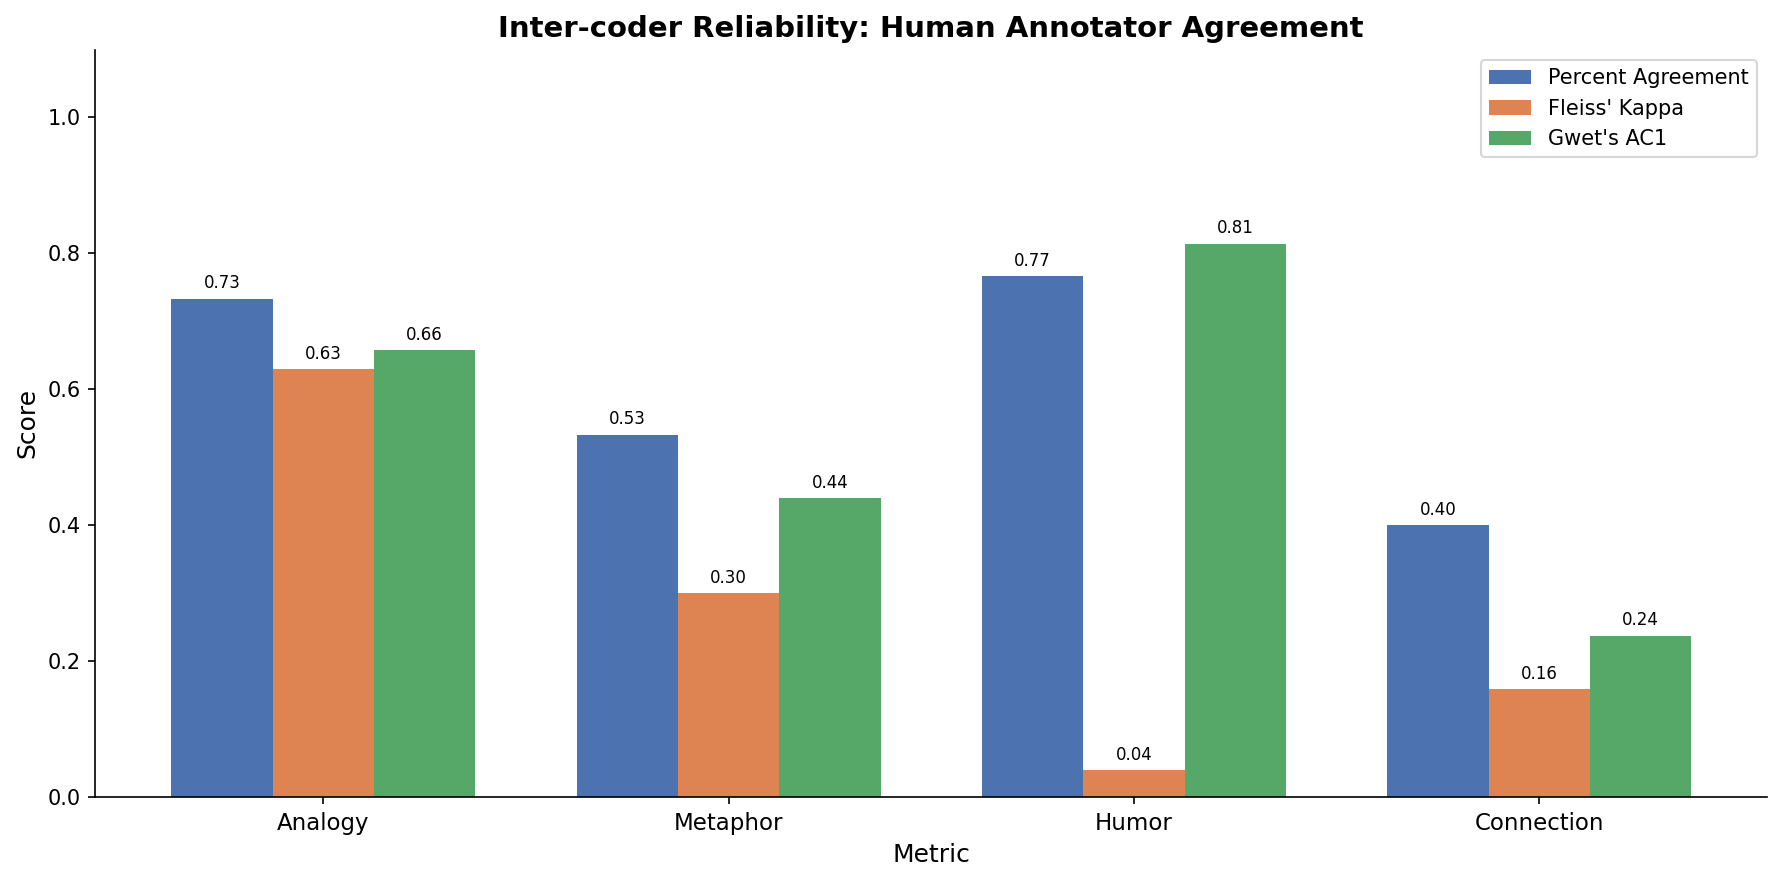
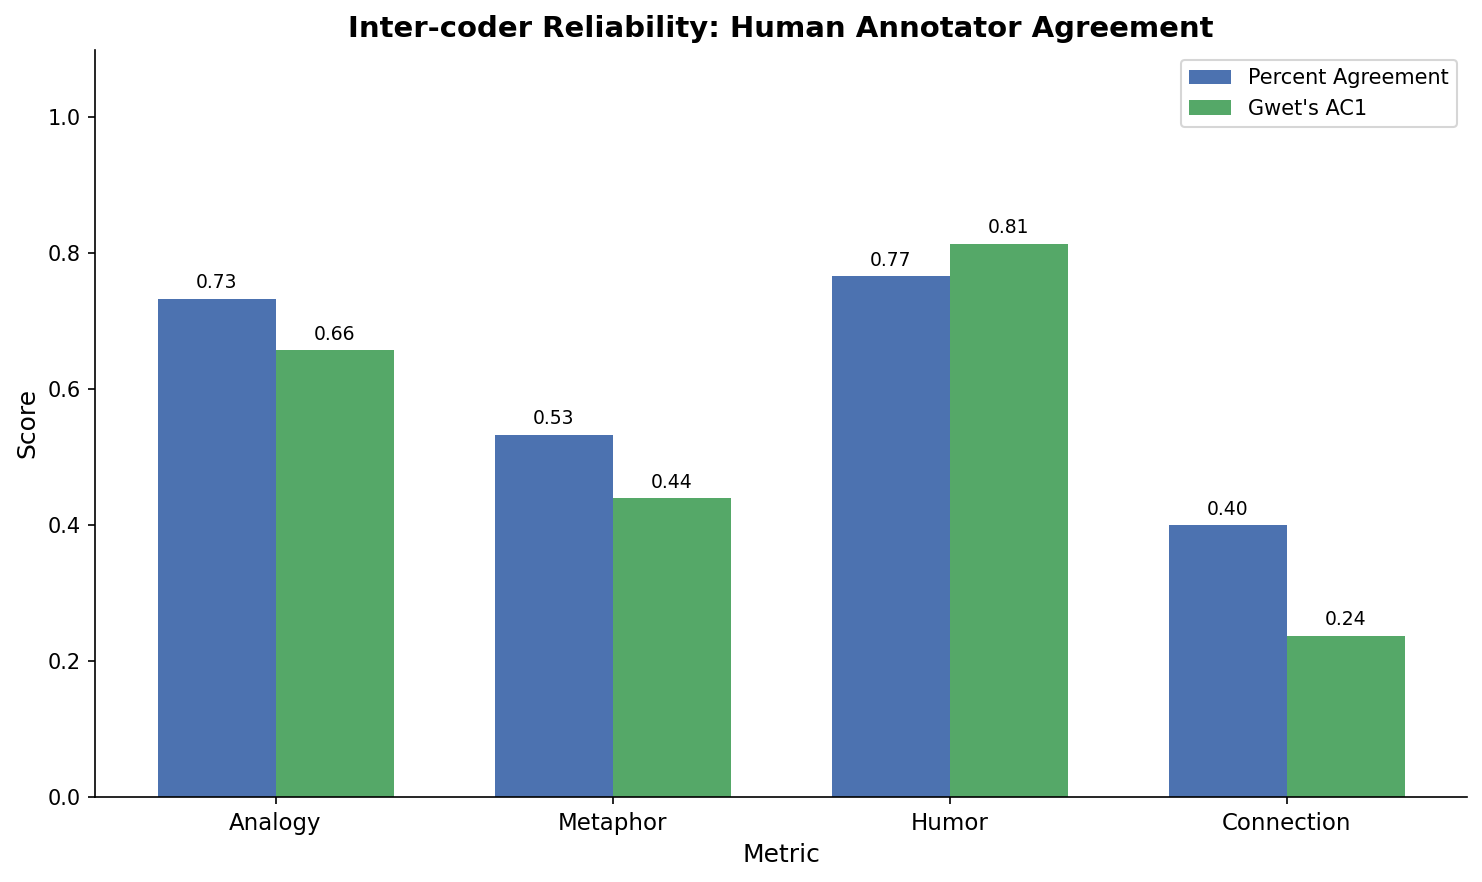
update intercoder reliability and human-LLM correlation visualizations by simplifying metrics and improving chart clarity

diff --git a/scripts/judge_alignment/intercoder_reliability.py b/scripts/judge_alignment/intercoder_reliability.py
@@ -269,22 +269,19 @@ def compute_majority_vote_labels(df: pd.DataFrame) -> pd.DataFrame:
 
 def plot_intercoder_reliability(icr_df: pd.DataFrame, output_path: Path) -> None:
     """
-    Create a grouped bar chart showing percent agreement, Fleiss' kappa,
-    and Gwet's AC1 for each metric.
+    Create a grouped bar chart showing percent agreement and Gwet's AC1 for each metric.
     """
-    fig, ax = plt.subplots(figsize=(12, 6))
+    fig, ax = plt.subplots(figsize=(10, 6))
 
     metrics = icr_df["metric"].tolist()
     x = np.arange(len(metrics))
-    width = 0.25
+    width = 0.35
 
     percent_agreement = icr_df["percent_agreement"].values
-    kappa = icr_df["kappa"].values
     ac1 = icr_df["ac1"].values
 
-    bars1 = ax.bar(x - width, percent_agreement, width, label="Percent Agreement", color="#4C72B0")
-    bars2 = ax.bar(x, kappa, width, label="Fleiss' Kappa", color="#DD8452")
-    bars3 = ax.bar(x + width, ac1, width, label="Gwet's AC1", color="#55A868")
+    bars1 = ax.bar(x - width / 2, percent_agreement, width, label="Percent Agreement", color="#4C72B0")
+    bars2 = ax.bar(x + width / 2, ac1, width, label="Gwet's AC1", color="#55A868")
 
     ax.set_xlabel("Metric", fontsize=12)
     ax.set_ylabel("Score", fontsize=12)
@@ -299,15 +296,11 @@ def plot_intercoder_reliability(icr_df: pd.DataFrame, output_path: Path) -> None
     for bar in bars1:
         height = bar.get_height()
         ax.annotate(f"{height:.2f}", xy=(bar.get_x() + bar.get_width() / 2, height),
-                    xytext=(0, 3), textcoords="offset points", ha="center", va="bottom", fontsize=8)
+                    xytext=(0, 3), textcoords="offset points", ha="center", va="bottom", fontsize=9)
     for bar in bars2:
         height = bar.get_height()
         ax.annotate(f"{height:.2f}", xy=(bar.get_x() + bar.get_width() / 2, height),
-                    xytext=(0, 3), textcoords="offset points", ha="center", va="bottom", fontsize=8)
-    for bar in bars3:
-        height = bar.get_height()
-        ax.annotate(f"{height:.2f}", xy=(bar.get_x() + bar.get_width() / 2, height),
-                    xytext=(0, 3), textcoords="offset points", ha="center", va="bottom", fontsize=8)
+                    xytext=(0, 3), textcoords="offset points", ha="center", va="bottom", fontsize=9)
 
     ax.spines["top"].set_visible(False)
     ax.spines["right"].set_visible(False)
@@ -322,54 +315,43 @@ def plot_human_llm_correlations(
     corr_mean_df: pd.DataFrame, corr_maj_df: pd.DataFrame, output_path: Path
 ) -> None:
     """
-    Create a grouped bar chart showing Human–LLM correlations
-    (Pearson, Spearman, Kendall's tau) for mean and majority-vote human labels.
+    Create a grouped bar chart showing Spearman correlations between
+    human labels and LLM scores for mean and majority-vote human labels.
     """
-    fig, axes = plt.subplots(1, 2, figsize=(14, 6))
+    fig, ax = plt.subplots(figsize=(10, 6))
 
     metrics = corr_mean_df["metric"].tolist()
     x = np.arange(len(metrics))
-    width = 0.25
+    width = 0.35
 
-    colors = {"pearson": "#4C72B0", "spearman": "#55A868", "kendall": "#DD8452"}
+    spearman_mean = corr_mean_df["spearman_mean"].values
+    spearman_majority = corr_maj_df["spearman_majority"].values
 
-    for ax, (label_type, corr_df, title) in zip(
-        axes,
-        [
-            ("mean", corr_mean_df, "Mean Human Label"),
-            ("majority", corr_maj_df, "Majority-vote Label"),
-        ],
-    ):
-        pearson = corr_df[f"pearson_{label_type}"].values
-        spearman = corr_df[f"spearman_{label_type}"].values
-        kendall = corr_df[f"kendall_{label_type}"].values
+    bars1 = ax.bar(x - width / 2, spearman_mean, width, label="Mean Human Label", color="#4C72B0")
+    bars2 = ax.bar(x + width / 2, spearman_majority, width, label="Majority-vote Label", color="#55A868")
 
-        bars1 = ax.bar(x - width, pearson, width, label="Pearson", color=colors["pearson"])
-        bars2 = ax.bar(x, spearman, width, label="Spearman", color=colors["spearman"])
-        bars3 = ax.bar(x + width, kendall, width, label="Kendall's τ", color=colors["kendall"])
+    ax.set_xlabel("Metric", fontsize=12)
+    ax.set_ylabel("Spearman Correlation", fontsize=12)
+    ax.set_title("Human–LLM Agreement (Spearman ρ)", fontsize=14, fontweight="bold")
+    ax.set_xticks(x)
+    ax.set_xticklabels(metrics, fontsize=11)
+    ax.set_ylim(-0.3, 1.15)
+    ax.axhline(y=0, color="gray", linestyle="-", linewidth=0.5)
+    ax.legend(loc="upper right", fontsize=10)
 
-        ax.set_xlabel("Metric", fontsize=12)
-        ax.set_ylabel("Correlation", fontsize=12)
-        ax.set_title(f"Human–LLM Correlations ({title})", fontsize=13, fontweight="bold")
-        ax.set_xticks(x)
-        ax.set_xticklabels(metrics, fontsize=10)
-        ax.set_ylim(-0.3, 1.15)
-        ax.axhline(y=0, color="gray", linestyle="-", linewidth=0.5)
-        ax.legend(loc="upper right", fontsize=9)
+    # Add value labels on bars
+    for bars in [bars1, bars2]:
+        for bar in bars:
+            height = bar.get_height()
+            if np.isnan(height):
+                continue
+            va = "bottom" if height >= 0 else "top"
+            offset = 3 if height >= 0 else -3
+            ax.annotate(f"{height:.2f}", xy=(bar.get_x() + bar.get_width() / 2, height),
+                        xytext=(0, offset), textcoords="offset points", ha="center", va=va, fontsize=9)
 
-        # Add value labels on bars
-        for bars in [bars1, bars2, bars3]:
-            for bar in bars:
-                height = bar.get_height()
-                if np.isnan(height):
-                    continue
-                va = "bottom" if height >= 0 else "top"
-                offset = 3 if height >= 0 else -3
-                ax.annotate(f"{height:.2f}", xy=(bar.get_x() + bar.get_width() / 2, height),
-                            xytext=(0, offset), textcoords="offset points", ha="center", va=va, fontsize=7)
-
-        ax.spines["top"].set_visible(False)
-        ax.spines["right"].set_visible(False)
+    ax.spines["top"].set_visible(False)
+    ax.spines["right"].set_visible(False)
 
     plt.tight_layout()
     plt.savefig(output_path, dpi=150, bbox_inches="tight")
